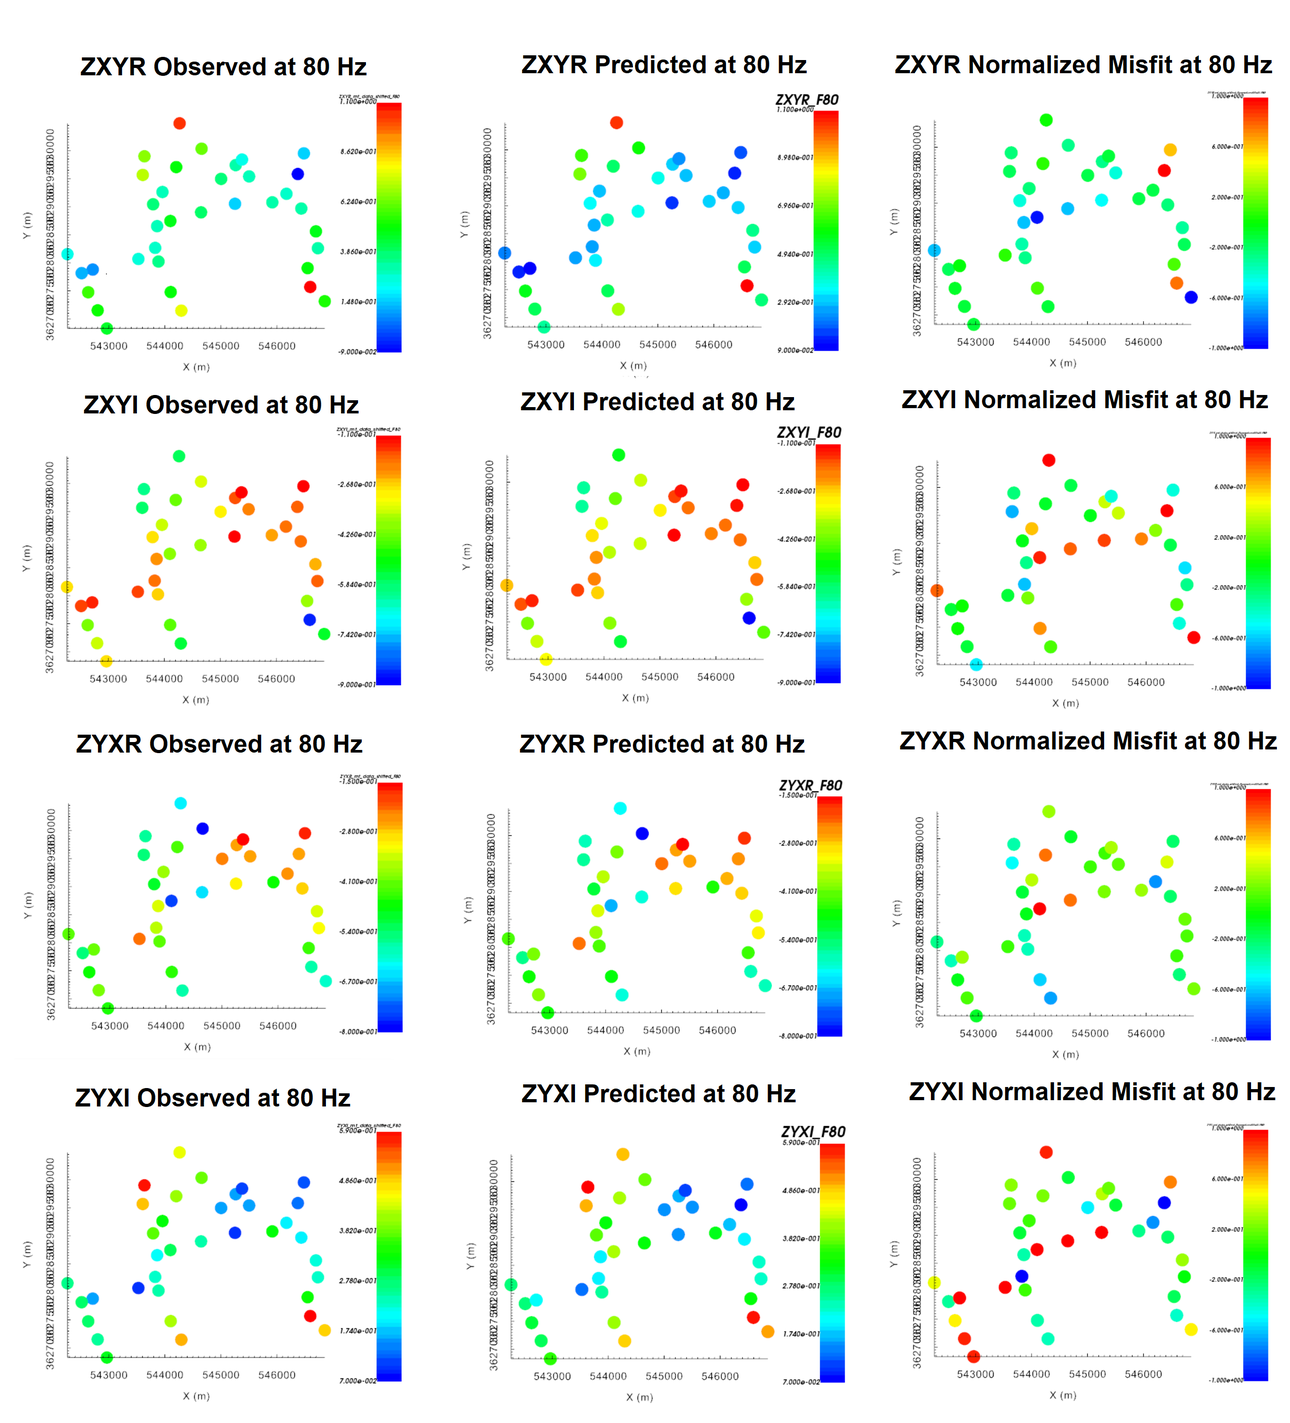
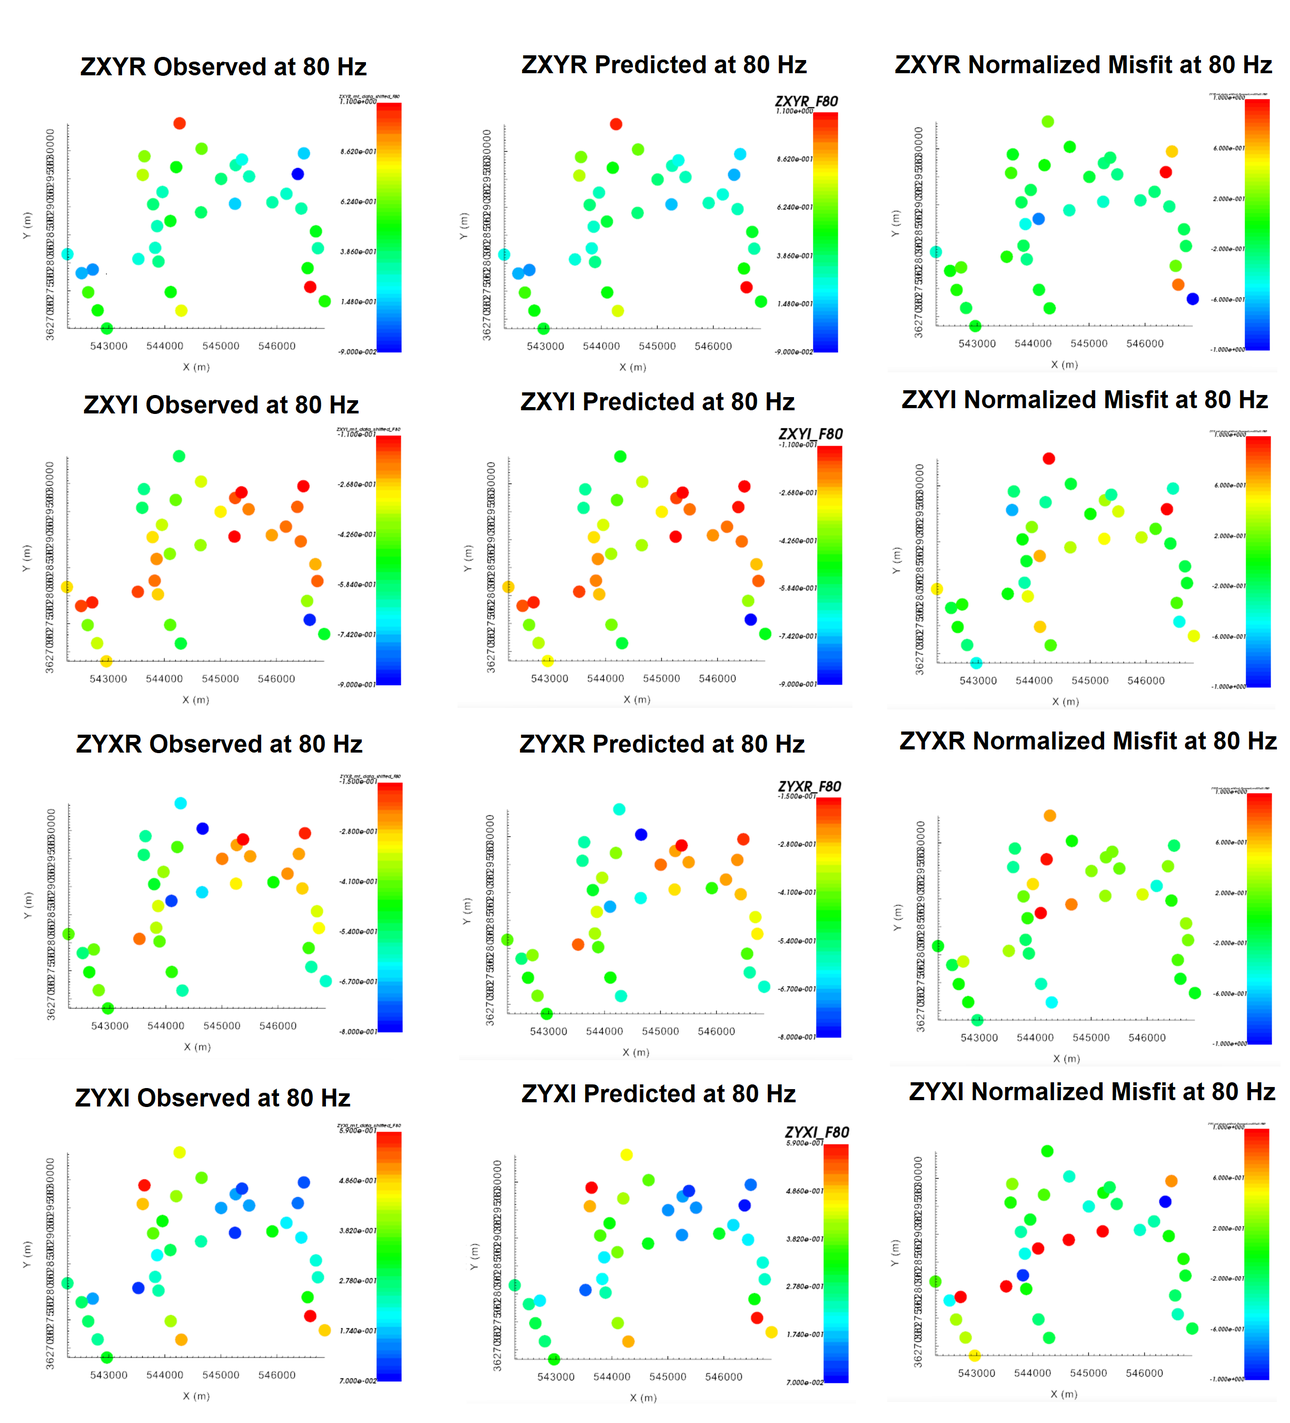
independent MT ZTEM inversions done

diff --git a/content/comprehensive_workflow/joint_mt_ztem/6_ztem_inversion.rst b/content/comprehensive_workflow/joint_mt_ztem/6_ztem_inversion.rst
@@ -17,8 +17,8 @@ Mesh Design
 
 According to the apparent resistivity maps and sounding curves, the Earth is more conductive near the surface and more resistive at depth. Over the range of frequencies at which we are inverting ZTEM data (30 - 720 Hz), the apparent resistivities are generally between 100 - 1000 :math:`\Omega m`. For a background resisitivity of 500 :math:`\Omega m`:
 
-	- :math:`\delta_{min}` = 417 m
-	- :math:`\delta_{max}` = 2041 m
+	- :math:`\delta_{min}` = 186 m
+	- :math:`\delta_{max}` = 2887 m
 
 Here, we create an OcTree mesh using the E3DMT v2 utility. The steps are as follows:
 
@@ -36,6 +36,15 @@ For the field data provided, the following parameters we set in *Edit Options*.
 .. figure:: images/mesh_parameters_ztem.png
     :align: center
     :width: 500
+
+
+**Discussion of Parameters:**
+
+    - We wanted to run this inversion on a single 64 GB nodes. As a result, we downsampled the original ZTEM data to a minimum spacing of 400 m. To have 2.5 cells per station, a minimum horizontal cell width of 160 m was chosen.
+    - A minimum vertical cell width of 80 m was used so that the horizontal to vertical widths of cells did not exceed a factor of 2. When we consider skin depth however, this may not be fine enough to model the highest frequency accurately.
+    - The width of the padding was set to roughly times the largest skin depth
+    - Over the frequencies we are inverting, we are likely only sensitive to the first few thousand meters. The sum of thickness 1, 2 and 3 were partitioned to sum to 4000 m.
+    - Unlike controlled source EM, natural source EM fields are very smooth and the discretization near the receivers can be less refined.
 
 
 
@@ -56,6 +65,10 @@ Interface weights were generated to enforce lateral smoothness within the top fe
 
     - :ref:`Run the utility <utilRun>`
     - :ref:`Load results <utilLoadResults>`
+
+**Discussion of Parameters:**
+
+    - Since ZTEM are collected in the air, sensitivity to the top few layers is not as problematic. Compared to our MT inversion, we applied smaller interface weights.
 
 
 
@@ -78,6 +91,14 @@ For the tutorial dataset provided, the parameters used to invert the data are sh
     Parameters used to invert the field dataset using E3DMT v2.
 
 
+**Discussion of Parameters:**
+
+    - Background, starting and reference models of 0.002 S/m were set. This corresponds to a rough average value of the apparent resistivity sounding curves over the frequencies we are inverting. It also seemed to work well for the more localized MT inversion.
+    - The starting beta was chosen as a result of preliminary inversion attempts.
+    - The inversion code will terminate when the total misfit (not data misfit) reaches the target chi-factor. We chose 0.4 to guarantee we will have some over-fitting iterations, even if we globally over-estimate our uncertainties.
+    - We chose to invert for the smoothest model, which recovers a data driven result that does not depend on the reference model. We do this by setting *alpha S* to a very small value.
+
+
 Analysis of Results
 -------------------
 
@@ -90,11 +111,11 @@ Once the inversion has finished:
 
 The Tikhonov curve for our tutorial inversion is shown below. According to the figure:
 
-    - the total misfit (not data misfit) reached the target (chi-factor of 0.5) at the 10th iteration, which caused the program to finish.
-    - the Tikhonov curve starts to flatten out around somewhere between the 5th and 7th interations.
-    - Subsequent analysis of iterations 5-7 showed that later iterations did not fit the data significantly better and that compact conductive structures in the recovered models started to show pixelation (over-fitting) in iterations 6 and 7.
-    - Here, we believe **iteration 5** best explains the data globally without overfitting.
-    - The **data misfit** at 5th iteration corresponds to a chi factor of 0.5. Therefore, we have likely over-estimated the global level of uncertainty on our data. If estimated correctly, we would expect the convergence curve to flatten our near a chi-factor of 1.
+    - the inversion code did not reach target misfit before the maximum number of allowable iterations (i.e. 10).
+    - the Tikhonov curve starts to become less steep after the 5th iteration, but does not flatten out. At each subsequent iteration, the misfit appears to be steadily decreasing. At this point, any iteration greater than or equal to 5 is candidate for further analysis.
+    - we looked at the largest conductivity values for the recovered models after iteration 5. We noticed that after iteration 7, the maximum conductivity in the recovered models became excessively large and kept increasing with each iteration.
+    - as a result, our model is likely within iterations 5-7. 
+    - the **data misfit** at 5th iteration corresponds to a chi factor of 0.56. Therefore, we have likely over-estimated the global level of uncertainty on our data. If estimated correctly, we would expect the convergence curve to flatten our near a chi-factor of 1.
 
 .. figure:: images/convergence_ztem_002.PNG
     :align: center
@@ -103,20 +124,15 @@ The Tikhonov curve for our tutorial inversion is shown below. According to the f
 Data Misfit
 ^^^^^^^^^^^
 
-
 Now that we have selected an iteration (or range of iterations) that we feel explains the data without overfitting:
 
     - :ref:`Load inversion results for these iterations <invLoadResults>`
 
-According the Tikhonov curve, the recovered model at iteration 5 has a good change of explaining the data without fitting the noise. For our example inversion, here are some things we noticed:
+According the Tikhonov curve, a recovered model within iterations 5-7 has a good change of explaining the data without fitting the noise. Here, we will examine **iteration 5**. For the example inversion, here are some things we noticed:
 
-    - The general shape and amplitude of the main geophysical signatures are well reproduced by the predicted data at all frequencies and for all components.
-    - The range of normalized misfits are generally consistent over all frequencies and over all components. This indicates that our basic estimate of the data uncertainties was a good first estimate.
-    - Higher normalized misfits were observed at the lowest (30 Hz) and highest (720) frequencies, especially in the quadrature data.
-    - Individual misfit maps shown coherent features, but these features are not consistent over all frequencies.
-    
-
-For our example, better results could be obtained by decreasing the floor uncertainty on the quadrature data by some factor and re-running the inversion to ensure we recover a model which fits the data evenly. To fit the highest and lowest frequencies better, we may lower the uncertainties. However, it is possible that our mesh was not designed to model these frequencies with a high enough level of accuracy.
+    - the range of normalized misfits are generally consistent over all frequencies and over all components. This indicates that we are generally not drastically over-fitting certain components/frequencies at the expense of others.
+    - higher normalized misfits were observed at the lowest (30 Hz) and highest (720) frequencies. For the 720 Hz data this makes sense, as the uncertainties applied we larger relative to the maximum amplitude. This was a deliberate choice given that 720 Hz data are usually poorer in quality.
+    - the general shape of the main geophysical signatures are well reproduced by the predicted data at all frequencies and for all components. However, the amplitude for some features are underestimated. This indicates we are overfitting the background at the expense of fitting the anomalies. Although the amplitude was better reproduced at iterations 6 and 7, correlated features in the misfit maps remained.
 
 
 .. figure:: images/misfit_ztem.png
@@ -126,12 +142,20 @@ For our example, better results could be obtained by decreasing the floor uncert
     Predicted data, observed data and normalized misfit for all data components at 180 Hz. For each component, predicted and observe data are plotted on the same scale. All normalized misfit maps are plotted on a range from -2 to 2.
 
 
+For our example, better results could be obtained by considering the following:
+
+    1. to ensure we fit ZTEM anomalies and not the background, we can 
+    spatially selected data at each frequency and for each component, assign a reduced uncertainty to those data, then re-run the inversion. The steps for modifying the uncertainties this way were explained in the :ref:`Raglan magnetics comprehensive workflow <comprehensive_workflow_magnetics_3_better_fit>`.
+
+    2. in order to run the inversion on a single 64 GB node, the smallest cell size was only 0.4 times the minimum skin depth. This is likely too coarse to model the highest frequencies with sufficient accuracy and would explain why the convergence became slower after iteration 5 but did not flatten.
+
+
 Recovered Model
 ^^^^^^^^^^^^^^^
 
-The conductivity model recovered at the  5th iteration is shown below. The colormap was scaled to 1e-4 S/m to 0.25 S/m. According to the recovered model:
+The conductivity model recovered at the 5th iteration is shown below. The colormap was scaled to 1e-4 S/m to 0.1 S/m. According to the recovered model:
 
-    - A large-scale resistive feature between two more conductive regional features trends from Northwest to Southeast. This is consistent with our original interpretation of the ZTEM data using total divergence maps.
+    - a large-scale resistive feature is located between two more conductive regional features which trend from Northwest to Southeast. This is consistent with our original interpretation of the ZTEM data using total divergence maps.
     - Within the resistive feature are localized regions of higher conductivity. However, these conductive features are not as strongly visible as in the MT inversion results.
 
 
@@ -139,4 +163,25 @@ The conductivity model recovered at the  5th iteration is shown below. The color
     :align: center
     :width: 700
 
-    Recovered model at iteration 5.
+    Recovered model from ZTEM data at iteration 5.
+
+
+Comparing MT and ZTEM Inversions
+^^^^^^^^^^^^^^^^^^^^^^^^^^^^^^^^
+
+Below, we compare MT and ZTEM inversion results on the scale of the MT survey. We see that large-scale features are recovered consistently by inverting both datasets. However, only the MT data appears to recover the localized highly conductive structures. This may be due, in part, to the fact that our ZTEM inversion underfit the ZTEM anomalies. The ZTEM inversion may also not be particularly sensitive to those structures.
+
+
+.. figure:: images/model_mt_iter7.png
+    :align: center
+    :width: 700
+
+    Recovered model from MT data at iteration 7.
+
+.. figure:: images/model_ztem_iter5_closeup.png
+    :align: center
+    :width: 700
+
+    Recovered model from ZTEM data at iteration 5 (MT survey coverage).
+
+

diff --git a/content/comprehensive_workflow/joint_mt_ztem/5_mt_inversion.rst b/content/comprehensive_workflow/joint_mt_ztem/5_mt_inversion.rst
@@ -17,8 +17,8 @@ Mesh Design
 
 According to the apparent resistivity maps and sounding curves, the Earth is more conductive near the surface and more resistive at depth. Over the range of frequencies we are inverting (8 - 756 Hz), the apparent resistivities are generally between 100 - 1000 :math:`\Omega m`. From the skin depth formula:
 
-	- :math:`\delta_{min}` = 200 m
-	- :math:`\delta_{max}` = 5000 m
+	- :math:`\delta_{min}` = 182 m
+	- :math:`\delta_{max}` = 5590 m
 
 Here, we create an OcTree mesh using the E3DMT v2 utility. The steps are as follows:
 
@@ -36,6 +36,14 @@ For the field data provided, the following parameters we set in *Edit Options*.
 .. figure:: images/mesh_parameters_mt.png
     :align: center
     :width: 500
+
+**Discussion of Parameters:**
+
+    - The minimum MT station spacing was ~200 m. To have 2.5 cells per station, a minimum horizontal cell width of 80 m was chosen.
+    - Given the minimum skin depth was ~200 m, we chose a minimum vertical cell width that was at most 1/4 this value (i.e. 40 m).
+    - The width of the padding was set to 2 times the largest skin depth
+    - Over the frequencies we are inverting, we are likely only sensitive to the first few thousand meters. The sum of thickness 1, 2 and 3 were partitioned to sum to 4000 m.
+    - Unlike controlled source EM, natural source EM fields are very smooth and the discretization near the receivers can be less refined.
 
 
 Interface Weights
@@ -56,6 +64,10 @@ Interface weights were generated to enforce lateral smoothness within the top fe
     - :ref:`Run the utility <utilRun>`
     - :ref:`Load results <utilLoadResults>`
 
+**Discussion of Parameters:**
+
+    - Since MT stations are on the Earth's surface, sensitivities to the top layer are much larger than for airborne measurements. Therefore, we chose a fairly large value for the top layer. We then decreased the horizontal weighting exponentially for 2 more layers.
+
 
 Setup and Run Inversion
 -----------------------
@@ -75,6 +87,12 @@ For the tutorial dataset provided, the parameters used to invert the data are sh
 
     Parameters used to invert the field dataset using E3DMT v2.
 
+**Discussion of Parameters:**
+
+    - Background, starting and reference models of 0.002 S/m were set. This corresponds to a rough average value of the apparent resistivity sounding curves over the frequencies we are inverting.
+    - The starting beta was chosen as a result of preliminary inversion attempts.
+    - The inversion code will terminate when the total misfit (not data misfit) reaches the target chi-factor. We chose 0.4 to guarantee we will have some over-fitting iterations, even if we globally over-estimate our uncertainties.
+    - We chose to invert for the smoothest model, which recovers a data driven result that does not depend on the reference model. We do this by setting *alpha S* to a very small value.
 
 
 Analysis of Results
@@ -89,9 +107,9 @@ Once the inversion has finished:
 
 The Tikhonov curve for our tutorial inversion is shown below. According to the figure:
 
-	- the total misfit (not data misfit) does not reach the target (chi-factor of 0.5) before the maximum number of beta iterations allowed (we set this to 10 in the input file). Thus the algorithm finished because a maximum number of iterations were completed.
-	- the Tikhonov curve starts to flatten out around after the 8th iteration, indicating the point on the Tikhonov curve after which recovered models start to over-fit the data.
-	- The **data misfit** at 8th iteration corresponds to a chi factor of 0.4. Therefore, we have likely over-estimated the global level of uncertainty on our data. If estimated correctly, we would expect the convergence curve to flatten our near a chi-factor of 1.
+	- the inversion code reach target misfit at the 9th iteration.
+	- the Tikhonov curve starts to flatten out after the 7th iteration, indicating the point on the Tikhonov curve after which recovered models start to over-fit the data.
+	- At the 7th iteration, the data misfit corresponds to a chi factor of 0.26. Therefore, we have likely over-estimated the global level of uncertainty on our data. If estimated correctly, we would expect the convergence curve to flatten out when the data misfit corresponds to a chi-factor of 1.
 
 
 .. figure:: images/convergence_mt_002.PNG
@@ -106,7 +124,7 @@ Now that we have selected an iteration (or range of iterations) that we feel exp
     - :ref:`Load inversion results for these iterations <invLoadResults>`
 
 
-According the Tikhonov curve, the recovered model at iteration 8 has a good chance of explaining the data without fitting the noise.
+According the Tikhonov curve, the recovered model at iteration 7 has a good chance of explaining the data without fitting the noise.
 
 **Off-Diagonal Components:**
 
@@ -143,16 +161,15 @@ The observed data, predicted data and normalized misfits for diagonal impedance 
 Recovered Model
 ^^^^^^^^^^^^^^^
 
-The conductivity model recovered at the 8th iteration is shown below. The colormap was scaled to 1e-4 S/m to 0.25 S/m. According to the recovered model:
+The conductivity model recovered at the 7th iteration is shown below. The colormap was scaled to 1e-4 S/m to 0.1 S/m. According to the recovered model:
 
-	- The basement is highly resistive.
 	- The regional conductivity is higher in the Northeast and Southwest, with a larger-scale resistive feature trending from Northwest to Southeast. This is consistent with our original interpretation of the ZTEM data using total divergence maps.
 	- Within the resistive feature are localized cluster of conductors.
 
 
-.. figure:: images/model_mt_iter8.png
+.. figure:: images/model_mt_iter7.png
     :align: center
     :width: 700
 
-    Recovered model at iteration 8.
+    Recovered model at iteration 7.
 

diff --git a/content/comprehensive_workflow/joint_mt_ztem/7_joint_inversion_preparation.rst b/content/comprehensive_workflow/joint_mt_ztem/7_joint_inversion_preparation.rst
@@ -1,0 +1,96 @@
+.. _comprehensive_workflow_mt_ztem_7:
+
+Setting Up and Running a Joint Inversion
+========================================
+
+
+
+MT measurements provide comprehensive EM information by measuring multiple data components at frequencies spanning many orders of magnitude (mHz to kHz).
+Unfortunately, MT data collection is very time consuming and is rarely collected at more than a few dozen stations.
+ZTEM data can be collected efficiently over large areas.
+However, ZTEM data are collected over a much smaller range of frequencies (generally between 30 Hz and 720 Hz). 
+As a result, ZTEM data is generally used to provide limited information over a large area.
+And MT data is used to provide high quality information for specific purposes. Examples include:
+
+    - using a spaced out set of MT stations characterize the regional geology
+    - using a more localized cluster of MT station to better characterize a geological target
+    - using higher frequency MT data to characterize the near-surface/overburden
+
+
+For independent MT inversion, a standard approach for assigning uncertainties and preparing MT data was covered in the Cloncurry MT comprehensive workflow.
+We strongly urge the reader to be familiar with this material. For reference, visit:
+
+    - :ref:`Preparing MT data <comprehensive_workflow_mt_3>`
+
+    - :ref:`Assigning uncertainties to MT data <comprehensive_workflow_mt_4>`
+
+
+
+Data Preparation
+----------------
+
+Frequency-Based Extraction
+^^^^^^^^^^^^^^^^^^^^^^^^^^
+
+The intended purpose for collecting the MT data and the computational resources available will determine which frequencies are extracted and used in our joint MT-ZTEM inversion.
+When looking forward to mesh design and joint inversion, we must consider the following:
+
+    1. The range of frequencies contained within the MT and ZTEM data being inverted should not exceed 3 orders of magnitude. This ensures the smallest cells in the mesh can adequately model the highest frequency. And ensures we can create a large enough mesh adequately model the lowest frequency. Since ZTEM data are collected between (30 Hz and 720 Hz), there is only a certain range of frequencies at which MT data can be used in a joint inversion.
+    
+    2. The inversion algorithm must store a factorization for every unique frequency. And since MT and ZTEM systems don't collect data at identical frequencies, the computational resources required for joint MT-ZTEM inversion can be quite large. We are therefore limited in the number of MT data frequencies that can be used in our joint inversion.
+
+
+Using GIFtools, we perform the frequency-based extraction:
+
+	- :ref:`Frequency-based extraction of data<objectTimeFreqExtract>`
+
+
+**Our approach:**
+
+For the tutorial data, we extracted MT data at 5 logarithmically spaced frequencies (8 Hz, 24 Hz, 80 Hz, 256 Hz and 756 Hz). Accoding to the :ref:`apparent resistivity sounding curves <comprehensive_workflow_mt_ztem_2_mt_interp>`, this range of frequencies appears to be sensitive to the nearer-surface conductive region and the background geology.
+
+
+
+Defining Receivers
+^^^^^^^^^^^^^^^^^^
+
+Presently, E3DMT v2 is considered the superior code for inverting natural-source EM data. To use this code, we must define the receivers:
+
+	- :ref:`Set/reset receivers from data locations<objectDataTypeMT_snid>`
+
+**Our approach:**
+
+According to the contractor, the electric field dipoles had lengths of 100 m. Receivers measuring the magnetic fields are much smaller than the cell dimensions being used to model the fields. If the contractor does not provide you with the coil receiver's dimensions, you may choose a value such as 1 m or 4 m. We used the following parameters to fill the fields:
+
+	- **Hx, Hy receiver width: 2 m**
+	- **Hx, Hy number of segments: 4**
+	- **Ex, Ey receiver length: 100 m**
+	- **Ex, Ey number of segments: 3**
+	- **Orientation from Nothing (deg): 0** (since data are defined Northing-Easting-Down)
+	- **Ex (Northing) shift:** 0 m Easting and 50 m Northing
+	- **Ey (Easting) shift:** 50 m Easting and 0 m Northing
+
+.. note:: If the loop receivers are square, choose the number of segments to be 4. GIFtools will define the loop as a square with side length equal to the value specified.
+
+
+
+
+Assigning Uncertainties
+-----------------------
+
+**Off-Diagonal Impedances (ZXYR, ZXYI, ZYXR and ZYXI):**
+
+For off-diagonal impedance components, we applied both a percent and a floor. For all components and for all frequencies, the percent uncertainty was 5%. Choosing a floor was more involved. Just like in the :ref:`Cloncurry MT comprehensive workflow <comprehensive_workflow_mt_4>`, the floor uncertainty at each frequency was computed according to:
+
+.. math::
+    \varepsilon (f) = \sqrt{2\pi \mu f (0.5 \Omega m)}
+
+This resulted in floor uncertainties of roughly 0.0055, 0.01, 0.018, 0.032 and 0.055 V/A. Essentially, the floor uncertainties ensure we do not try to fit large localized fluctuations in high conductivity regions at the expense of properly fitting resistive structures.
+
+
+**Diagonal Impedances (ZXXR, ZXXI, ZYYR and ZYYI):**
+
+For diagonal impedance components, we applied a floor uncertainty equal to 5% the maximum value. This was done separately for each component and for each frequency.
+
+
+    - Use the :ref:`GUI for applying frequency-dependent uncertainties <objectAssignUncertGUI>`.

diff --git a/content/comprehensive_workflow/magnetics/3_equivalent_source.rst b/content/comprehensive_workflow/magnetics/3_equivalent_source.rst
@@ -77,6 +77,8 @@ We are simply recovering a model which fits the data exactly.
 
 
 
+.. _comprehensive_workflow_magnetics_3_better_fit:
+
 Applying Uncertainties
 ----------------------
 
